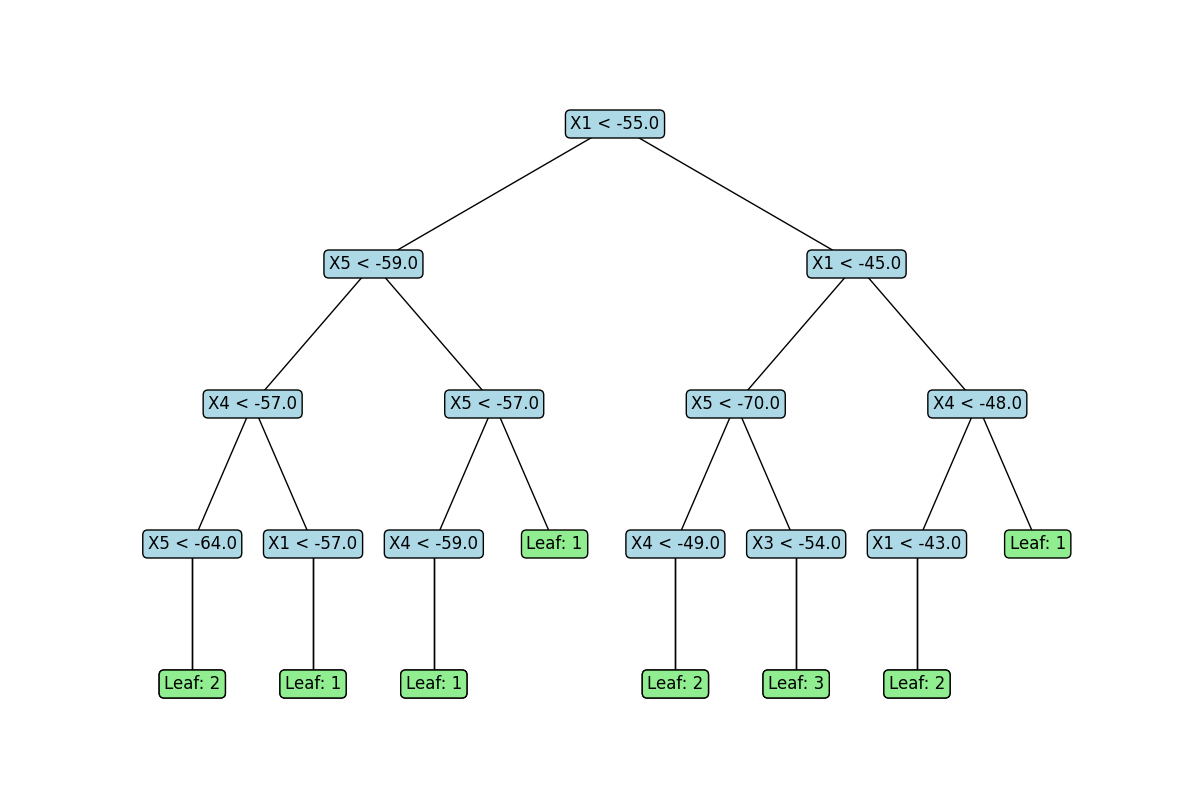
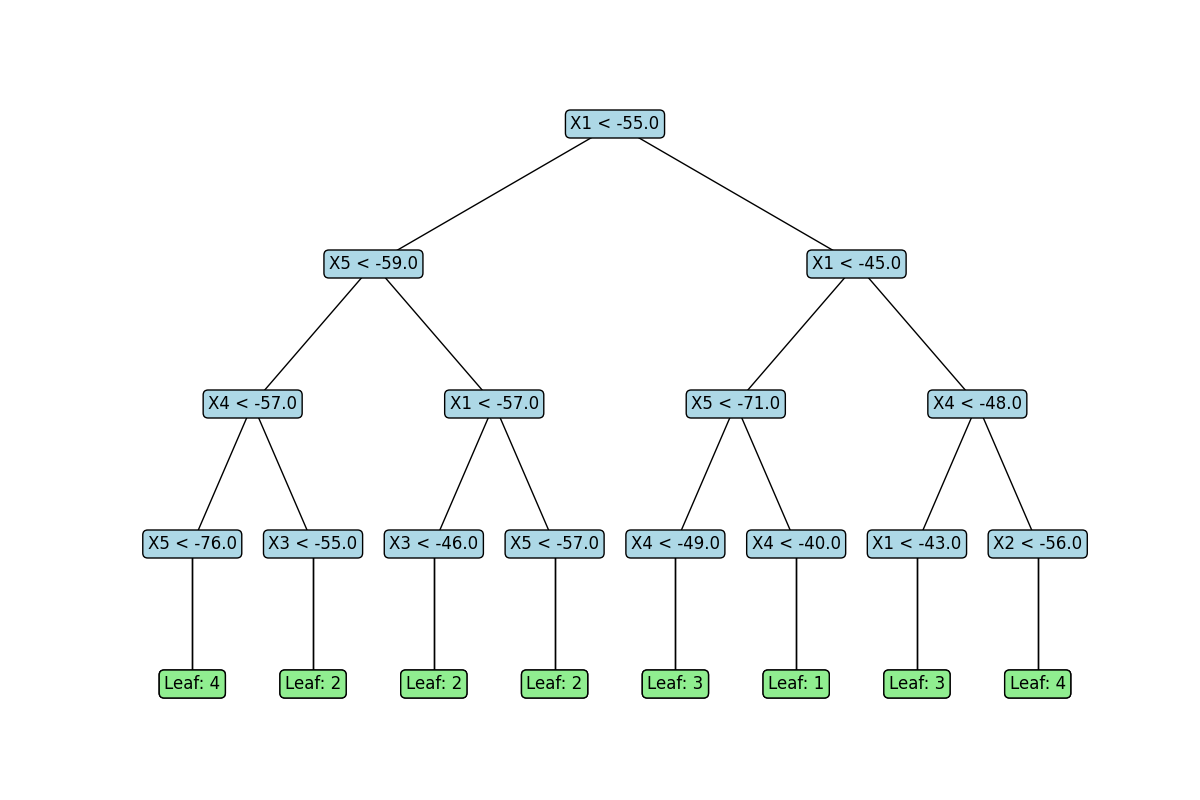
<refactor> [ayc122] Added small code to allow for parsing of both noisy and clean dataset

diff --git a/func.py b/func.py
@@ -6,8 +6,20 @@ def parse(dataset_file_name):
     """
     Parse the txt file into wifi components
     """
-    line = np.loadtxt(f"wifi_db/{dataset_file_name}.txt", delimiter='\t')
-    return line
+    data = []
+    with open(f"wifi_db/{dataset_file_name}.txt", 'r') as f:
+        for line in f:
+            # Strip whitespace and check if tabs are present
+            if '\t' in line:
+                # Parse tab-delimited line
+                parsed_line = np.fromstring(line.strip(), sep='\t')
+            else:
+                # Parse space-delimited line
+                parsed_line = np.fromstring(line.strip(), sep=' ')
+            
+            data.append(parsed_line)
+    
+    return np.array(data) 
 
 def decision_tree_learning(train: list[list[float]], depth: int) -> tuple:
 # arguments: Matrix containing data set and depth variable

diff --git a/main.py b/main.py
@@ -6,7 +6,7 @@ def main():
     """
     Main function
     """
-    dataset = func.parse("clean_dataset")
+    dataset = func.parse("noisy_dataset")
     tree, depth = func.decision_tree_learning(dataset, 1)
     # func.troubleshoot(tree)
     positions, node_ids = vis.assign_positions(tree)
